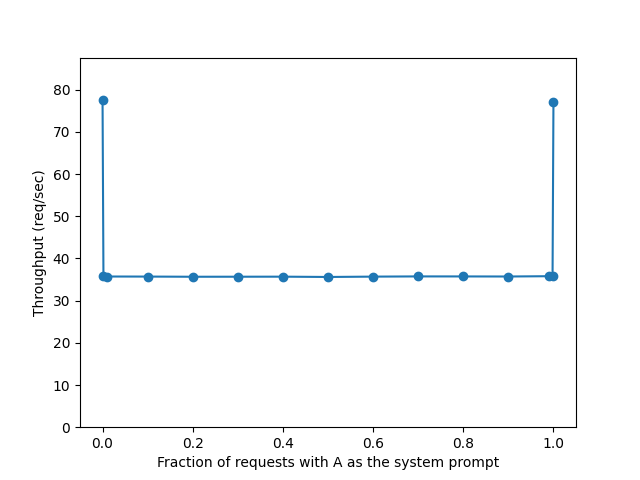
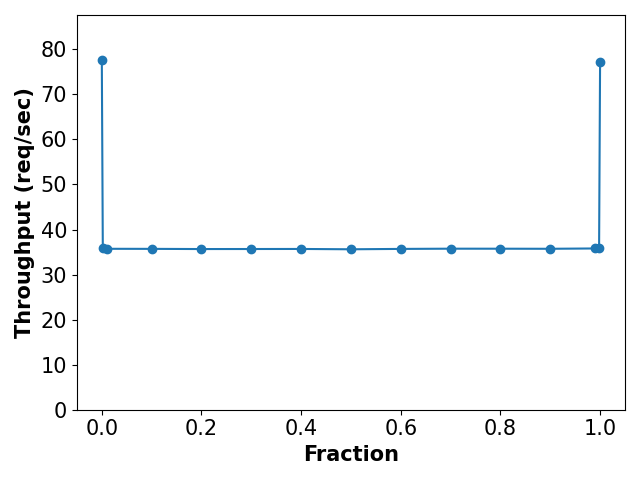
two-fam

diff --git a/code/vllm/two_family_dcgmi_logs/plot.py b/code/vllm/two_family_dcgmi_logs/plot.py
@@ -1,0 +1,61 @@
+import re
+import matplotlib.pyplot as plt
+
+# Path to your single log file
+LOG_FILE = "out_two_family"
+
+fractions = []
+means = []
+sums = []
+
+current_frac = None
+
+with open(LOG_FILE, "r") as f:
+    for line in f:
+        # Detect fraction from filename lines
+        frac_match = re.search(r"frac-([0-9.]+)_", line)
+        if frac_match:
+            current_frac = float(frac_match.group(1))
+
+        # Extract Sum
+        sum_match = re.search(r"Sum\s*:\s*([0-9.]+)", line)
+        if sum_match and current_frac is not None:
+            sums.append(float(sum_match.group(1)))
+
+        # Extract Mean
+        mean_match = re.search(r"Mean\s*:\s*([0-9.]+)", line)
+        if mean_match and current_frac is not None:
+            means.append(float(mean_match.group(1)))
+            fractions.append(current_frac)
+
+# Sort everything by fraction
+sorted_data = sorted(zip(fractions, sums, means), key=lambda x: x[0])
+fractions, sums, means = zip(*sorted_data)
+
+# -------------------------
+# Plot Mean vs Fraction
+# -------------------------
+plt.figure()
+plt.plot(fractions, means, marker='o')
+plt.xlabel("Fraction", fontweight="bold", fontsize=15)
+plt.ylabel("Mean DRAM Activity", fontweight="bold", fontsize=15)
+plt.xticks(fontsize=15)
+plt.yticks(fontsize=15)
+plt.ylim(0, None)
+plt.grid(True)
+plt.tight_layout()
+plt.savefig("../../../results/mean_dram_activity_vs_fraction_two_fam_llama8b.png")
+
+# -------------------------
+# Plot Sum vs Fraction
+# -------------------------
+plt.figure()
+plt.plot(fractions, sums, marker='o')
+plt.xlabel("Fraction", fontweight="bold", fontsize=15)
+plt.ylabel("Sum of DRAM Activity", fontweight="bold", fontsize=15)
+plt.ylim(0, None)
+plt.xticks(fontsize=15)
+plt.yticks(fontsize=15)
+plt.grid(True)
+plt.tight_layout()
+plt.savefig("../../../results/sum_dram_activity_vs_fraction_two_fam_llama8b.png")

diff --git a/code/vllm/two_family_dcgmi_logs/read.py b/code/vllm/two_family_dcgmi_logs/read.py
@@ -49,8 +49,11 @@ for frac in fractions:
 # Plot
 plt.figure()
 plt.plot(fractions[:len(avg_durations)], avg_durations, marker='o')
-plt.xlabel("Fraction of requests with A as the system prompt")
-plt.ylabel("Throughput (req/sec)")
+plt.xlabel("Fraction", fontweight="bold", fontsize=15)
+plt.ylabel("Throughput (req/sec)", fontweight="bold", fontsize=15)
+plt.xticks(fontsize=15)
+plt.yticks(fontsize=15)
 plt.ylim(0, max(avg_durations) + 10)
+plt.tight_layout()
 # plt.title("Average Scheduler Duration vs Fraction")
 plt.savefig("../../../results/throughput_vs_fraction_two_fam_llama8b.png")

diff --git a/code/vllm/two_family.py b/code/vllm/two_family.py
@@ -198,7 +198,7 @@ def main():
         enable_prefix_caching=True,
         enable_chunked_prefill=True,
         max_num_seqs=args.batch_size,
-        max_num_batched_tokens=65536,
+        max_num_batched_tokens=32768,
     )
 
     run_experiment(llm, prompts, args.max_new_tokens, args.iterations, args.write_dcgmi, args)
